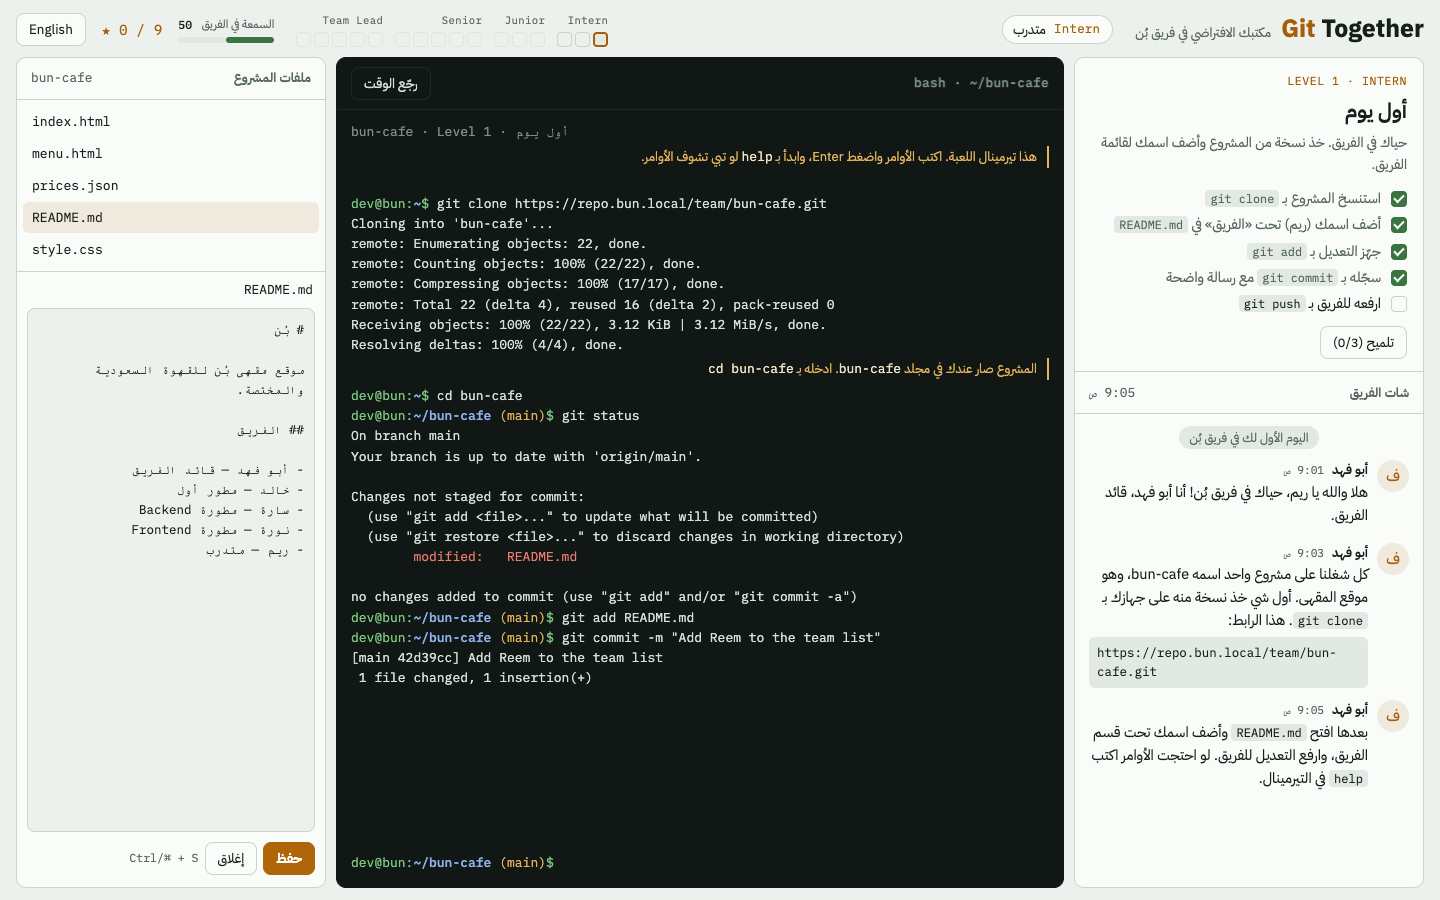
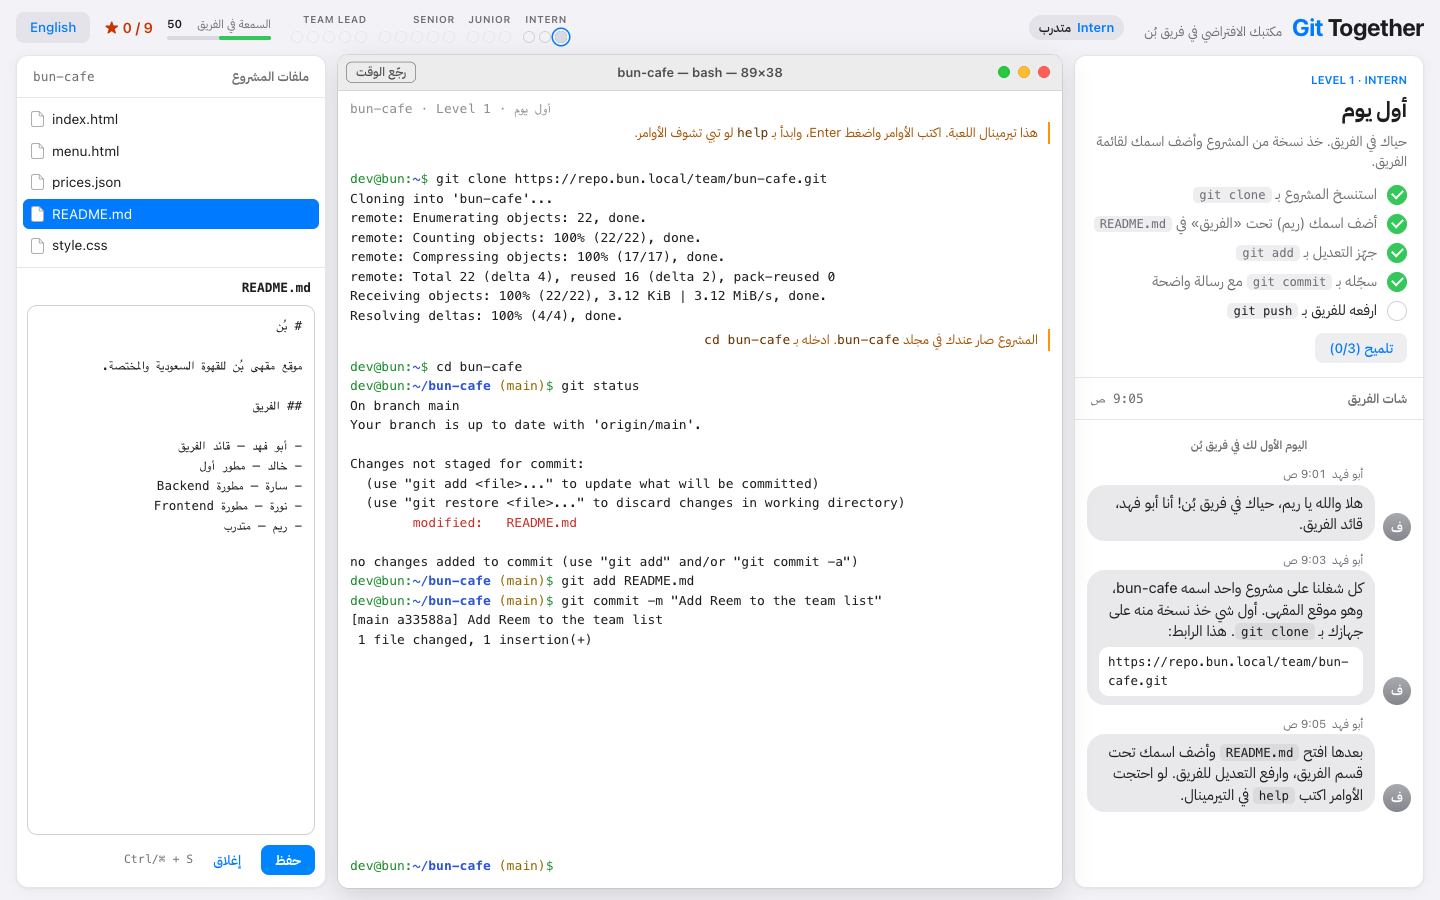
Show the Apple design in the README
Claude-Session: https://claude.ai/code/session_01Btap7gtedpWBLM7KiJCx9T

diff --git a/README.ar.md b/README.ar.md
@@ -19,6 +19,7 @@
 - **فريق يتفاعل:** رسالة commit مبهمة، أو كلمة سر انرفعت، أو مهمتين في commit واحد، كلها لها أثر على سمعتك ونجومك، وقائد الفريق يعلّق.
 - **تعليم مو بس تصحيح:** تلميحات تشرح كل غلط، وثلاث مستويات من المساعدة في كل مرحلة، و«رجّع الوقت» يعيد المستوى متى ما بغيت.
 - **بالعربي أو بالإنجليزي:** كل نص موجود باللغتين، والواجهة تنقلب من اليمين لليسار حسب اللغة.
+- **بتصميم تطبيقات أبل:** خطوط أبل وألوانها، وشات مثل iMessage، وتيرمينال يشبه Terminal في الماك، بالوضع الفاتح والداكن.
 - **على أي شاشة:** ثلاث أعمدة على الكمبيوتر، وعمودين على التابلت، وعمود واحد على الجوال، بالطول والعرض.
 - **بدون حساب وبدون سيرفر:** كل شي في متصفحك، والتقدم محفوظ عندك.
 

diff --git a/README.md b/README.md
@@ -23,6 +23,7 @@ It's made for developers who know `add`, `commit` and `push` but have only ever 
 - **A team that reacts.** A vague commit message, a pushed password or two tasks in one commit all have consequences: reputation, stars and a word from the team lead.
 - **Teaching, not just checking.** Coaching tips explain each mistake, every level has three tiers of hints, and you can rewind a level at any time.
 - **Arabic and English.** Every line of copy exists in both languages, and the layout mirrors between right-to-left and left-to-right.
+- **Designed like an Apple app.** Apple's system fonts and colours, iMessage-style chat, and a terminal that looks like macOS Terminal, in light and dark mode.
 - **Any screen.** Three panes on desktop, two on tablets, and one at a time on phones, in portrait and landscape.
 - **No account, no server.** It's a static site, and your progress stays in your browser.
 
